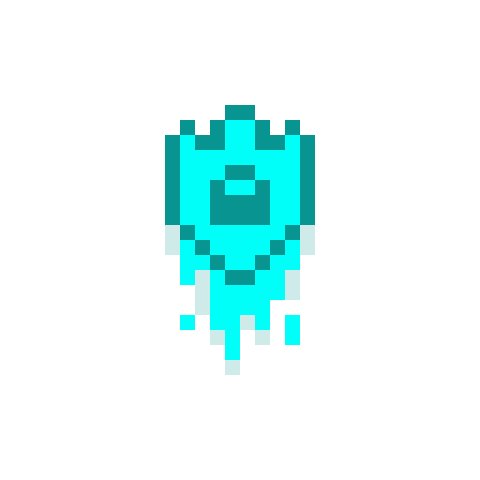
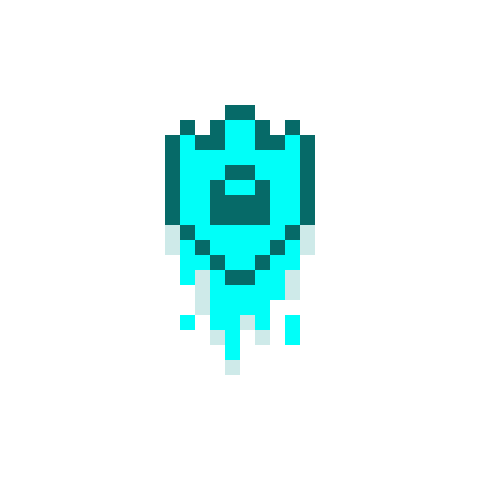
Cor do data para verde

diff --git a/settings.py b/settings.py
@@ -36,7 +36,7 @@ COLOR_PROJECTILE = (255, 255, 0) # Amarelo
 PROJECTILE_SIZE = 78
 
 # Configurações de XP (Data)
-COLOR_XP = (0, 255, 255) # Ciano Brilhante
+COLOR_XP = (170, 255, 0) # Verde brilhante
 XP_SIZE = 8
 MAGNET_RADIUS = 150      # Distância em pixels para o item começar a voar até o player
 DATA_VALUE = 10          # Quanto XP cada item dá
